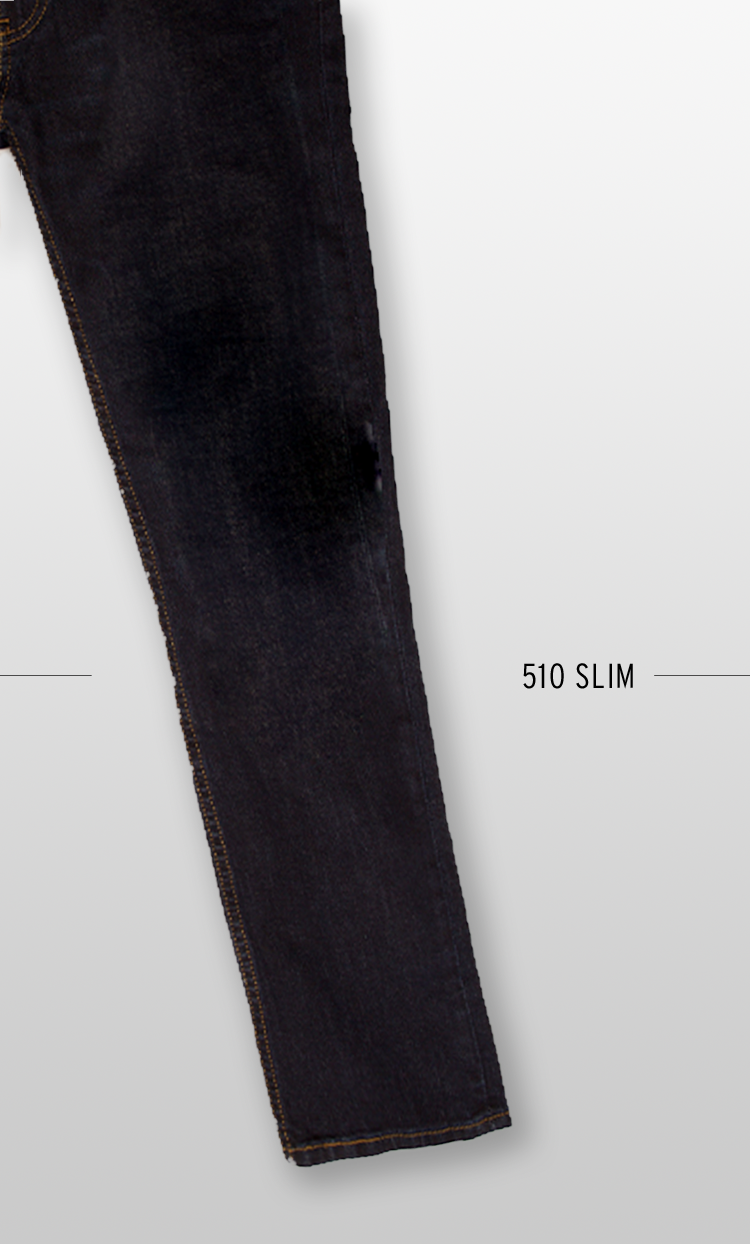
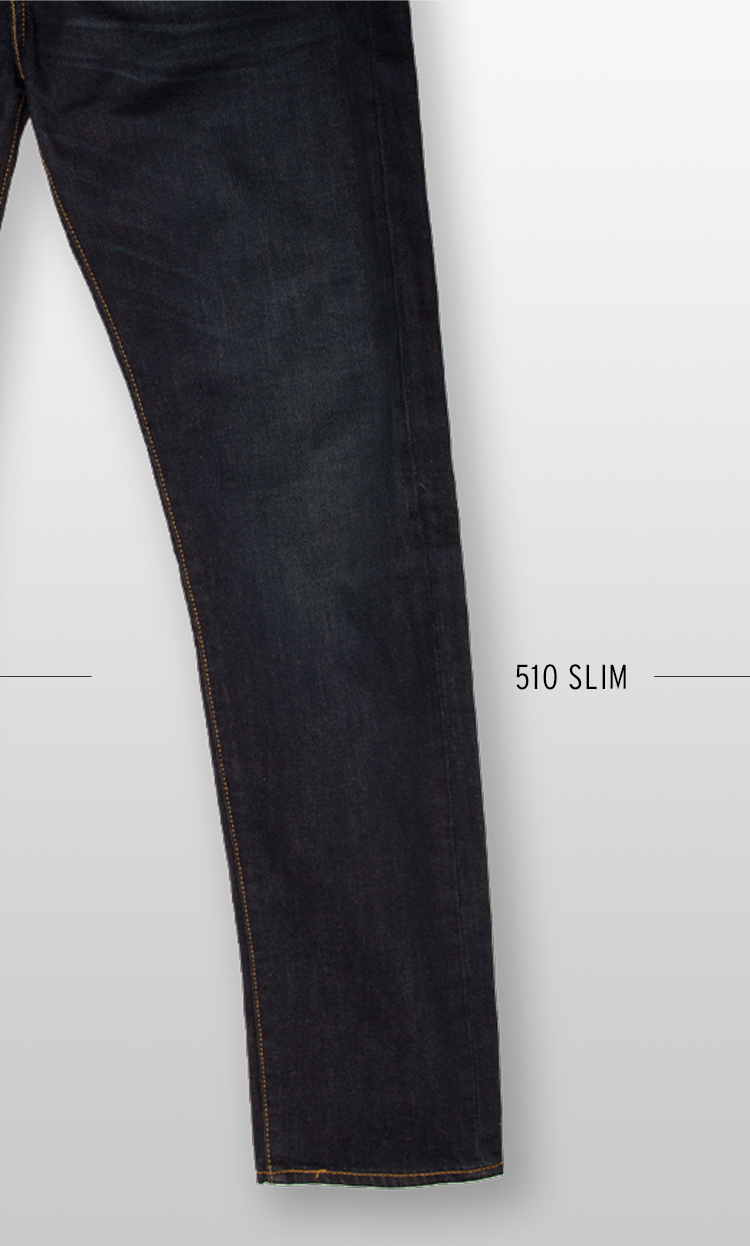
dsf

diff --git a/result.css b/result.css
@@ -144,116 +144,124 @@ body {
 
 	/*pants slider******************************************/
 
+	.fit {
+		position: absolute;
+		top: 29px;
+		left: 217px;
+		z-index: 2;
+	}
+
 /*	.swiper-container {
 		width: 375px;
 		height: 400px;
-	} */
-	.swiper-container-type {
-		margin-bottom: 10px;
-	}
-	.swiper-slide {
-		text-align: center;
-	}
-	.swiper-button-prev {
-		height: 60px!important;
-		width: 41px!important;
-		background-image: url(images/prev.png)!important;
-		background-size: 41px 60px!important;
-	}
-	.swiper-button-next {
-		height: 60px!important;
-		width: 41px!important;
-		background-image: url(images/next.png)!important;
-		background-size: 41px 60px!important;
-	}
-	.sticky-pants {
-		margin-left: 21px;
-		z-index: 20;
-		position: absolute;
-		margin-top: 35px;
-	}
-	.sticky-pants img {
-		margin-top: 20px;
-	}
-	#type {
-		overflow: auto;
-		/*margin-bottom: 70px;*/
-	}
-	.type-label {
-		text-align: center;
-	}
+		} */
+		.swiper-container-type {
+			margin-bottom: 10px;
+		}
+		.swiper-slide {
+			text-align: center;
+		}
+		.swiper-button-prev {
+			height: 60px!important;
+			width: 41px!important;
+			background-image: url(images/prev.png)!important;
+			background-size: 41px 60px!important;
+		}
+		.swiper-button-next {
+			height: 60px!important;
+			width: 41px!important;
+			background-image: url(images/next.png)!important;
+			background-size: 41px 60px!important;
+		}
+		.sticky-pants {
+			margin-left: 21px;
+			z-index: 20;
+			position: absolute;
+			margin-top: 35px;
+		}
+		.sticky-pants img {
+			margin-top: 20px;
+		}
+		#type {
+			overflow: auto;
+			/*margin-bottom: 70px;*/
+			position: relative;
+		}
+		.type-label {
+			text-align: center;
+		}
 
-	/*pants color******************************************/
-	.color-b {
-		position: relative;
-		overflow: auto;
-	}
-	#color {
-		margin: 0 23px 0;
-		position: absolute;
-		top: 416px;
-		z-index: 10;
-		color: #fff;
-	}
-	#color .section-header {
-		top: -377px;
-		right: 0;
-	}
-	#color h3 {
-		text-align: right;
-	}
+		/*pants color******************************************/
+		.color-b {
+			position: relative;
+			overflow: auto;
+		}
+		#color {
+			margin: 0 23px 0;
+			position: absolute;
+			top: 416px;
+			z-index: 10;
+			color: #fff;
+		}
+		#color .section-header {
+			top: -377px;
+			right: 0;
+		}
+		#color h3 {
+			text-align: right;
+		}
 
-	.range {
-		background-color: #252525;
-		padding: 20px 0 20px 22px;
-		position: relative;
-	}
-	.rcircle {
-		width: 10px;
-		height: 10px;
-		-moz-border-radius: 50px;
-		-webkit-border-radius: 50px;
-		border-radius: 20px;
-		background: #959595;
-		display: inline-block;
-		margin-right: 20px;
-	}
-	.red-line {
-		margin: 50px 0;
-		background-color: #ff5555;
-	}
+		.range {
+			background-color: #252525;
+			padding: 20px 0 20px 22px;
+			position: relative;
+		}
+		.rcircle {
+			width: 10px;
+			height: 10px;
+			-moz-border-radius: 50px;
+			-webkit-border-radius: 50px;
+			border-radius: 20px;
+			background: #959595;
+			display: inline-block;
+			margin-right: 20px;
+		}
+		.red-line {
+			margin: 50px 0;
+			background-color: #ff5555;
+		}
 
-	#js-rangeslider-0, #js-rangeslider-1, #js-rangeslider-3 {
-		top: 23px;
-		left: 10px;
-		position: absolute;
-		max-width: 308px;
-	}
-	#js-rangeslider-0 .rangeslider__handle, #js-rangeslider-1 .rangeslider__handle, #js-rangeslider-3 .rangeslider__handle {
-		height: 30px;
-		width: 30px;
-		border: none;
-	}
+		#js-rangeslider-0, #js-rangeslider-1, #js-rangeslider-3 {
+			top: 23px;
+			left: 10px;
+			position: absolute;
+			max-width: 308px;
+		}
+		#js-rangeslider-0 .rangeslider__handle, #js-rangeslider-1 .rangeslider__handle, #js-rangeslider-3 .rangeslider__handle {
+			height: 30px;
+			width: 30px;
+			border: none;
+		}
 
 
-	/*pants distress******************************************/
-	#distress {
-		overflow: auto;
-		width: 375px;
-		height: 612px;
-		background: url(images/distress_bg.png) no-repeat;
-		background-size: contain;
-		margin: 10px 0;
-		position: relative;
-	}
-	#distress h3 {
-		text-align: right;
-	}
-	.swiper-container-distress {
-		width: 325px;
-		height: 325px;
-		margin: 159px 0 0 24px;
-	}
+		/*pants distress******************************************/
+		#distress {
+			overflow: auto;
+			width: 375px;
+			height: 612px;
+			background: url(images/distress_bg.png) no-repeat;
+			background-size: contain;
+			margin: 10px 0;
+			position: relative;
+		}
+		#distress h3 {
+			text-align: right;
+		}
+		.swiper-container-distress {
+			width: 325px;
+			height: 325px;
+			margin: 159px 0 0 24px;
+		}
 /*.swipe-area {
 	height: 241px;
 	width: 336px;

diff --git a/result.html b/result.html
@@ -31,10 +31,12 @@
 				<!-- Additional required wrapper -->
 				<div class="swiper-wrapper">
 					<!-- Slides -->
-					<div class="swiper-slide"><img src="images/leg_1.png" width="375px" height="622"></div>
-					<div class="swiper-slide"><img src="images/pants_2.png" width="375px" height="622"></div>
+					<div class="swiper-slide"><img src="images/leg_3.png" width="375px" height="623"></div>
+					<div class="swiper-slide"><img src="images/leg_2.png" width="375px" height="623"></div>
+					<div class="swiper-slide"><img src="images/leg_1.png" width="375px" height="623"></div>
 				</div>
 			</div>
+			<img class="fit" src="images/fit.png" width="127" height="79">
 			<!-- Swiper -->
 			<!-- <div class="swiper-container-color">
 				<div class="swiper-wrapper">
